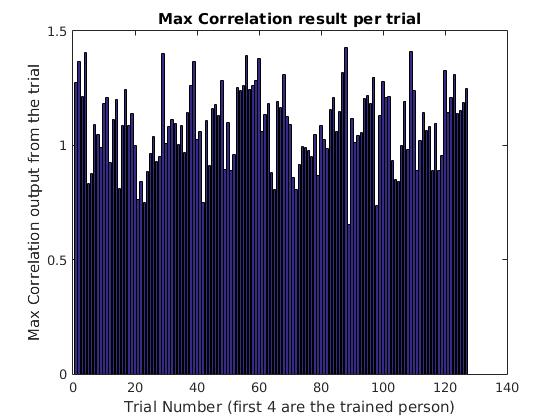
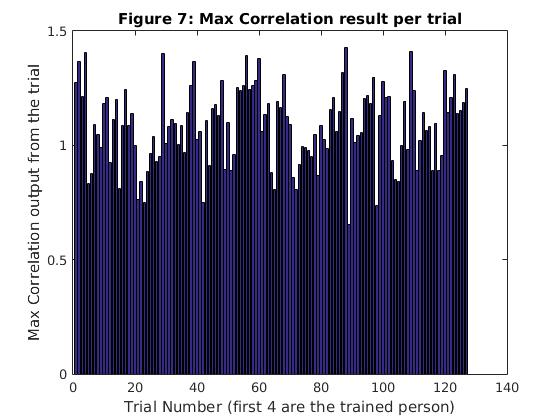
Final results and figures

Changed region(s): [[0.2125, 0.031, 0.8196, 0.0619]]

diff --git a/matlab/extract_scr.m b/matlab/extract_scr.m
@@ -18,6 +18,11 @@ mean_val = mean(proj);
 if(mean_val > .5)
     proj = -proj + 1;
 end
+figure;
+plot(proj);
+title('Figure 1: 1-D Projected data')
+ylabel('Acceleration (Normalized)');
+xlabel('Sample');
 step_len = 55;
 thresh = .7;
 last_val = 0;
@@ -47,7 +52,7 @@ for i = 1:length(proj)
     end
     last_val = cur_val;
 end
-title('All threshold steps');
+title('Figure 2: All threshold steps');
 xlabel('Step Sample');
 ylabel('Normalized acceleration');
 [vecs, lambda, steps_1_proj, steps_1_mean] = PCA(steps_1, false);
@@ -62,7 +67,7 @@ good_steps = steps_1(:,label == my_label);
 for i = 1:size(good_steps,2)
     plot(good_steps(:,i));
 end
-title('Kmeans extracted steps');
+title('Figure 4: Kmeans extracted steps');
 xlabel('Step Sample');
 ylabel('Normalized acceleration');
 figure
@@ -72,7 +77,7 @@ for i = 1:3
     steps = steps_1_proj(1:3,label == i);
     plot3(steps(1,:),steps(2,:),steps(3,:),['*',color(i)]);
 end
-title('Kmeans result on steps in PCA Space');
+title('Figure 3: Kmeans result on steps in PCA Space');
 
 
 [h_OTSDF, H_OTSDF] = OTSDF(good_steps,.9);
@@ -184,7 +189,7 @@ for i = 1:size(steps_2,2)
     correlation_same = real(ifft(fft(steps_2(:, i)) .* conj(H_OTSDF))) * step_len;
     plot(correlation_same);
 end
-title('Same Person Correlation Output');
+title('Figure 5: Same Person Correlation Output');
 axis(axis_val);
 figure
 hold on
@@ -192,7 +197,7 @@ for i = 1:size(steps_3,2)
     correlation_diff = real(ifft(fft(steps_3(:, i)) .* conj(H_OTSDF))) * step_len;
     plot(correlation_diff);
 end
-title('Different Person Correlation Output');
+title('Figure 6: Different Person Correlation Output');
 axis(axis_val); 
     
 %% Test on all
@@ -248,6 +253,6 @@ for j = 1:num_tests
 end
 figure
 bar(class_result);
-title('Max Correlation result per trial');
+title('Figure 7: Max Correlation result per trial');
 xlabel('Trial Number (first 4 are the trained person)');
 ylabel('Max Correlation output from the trial');
